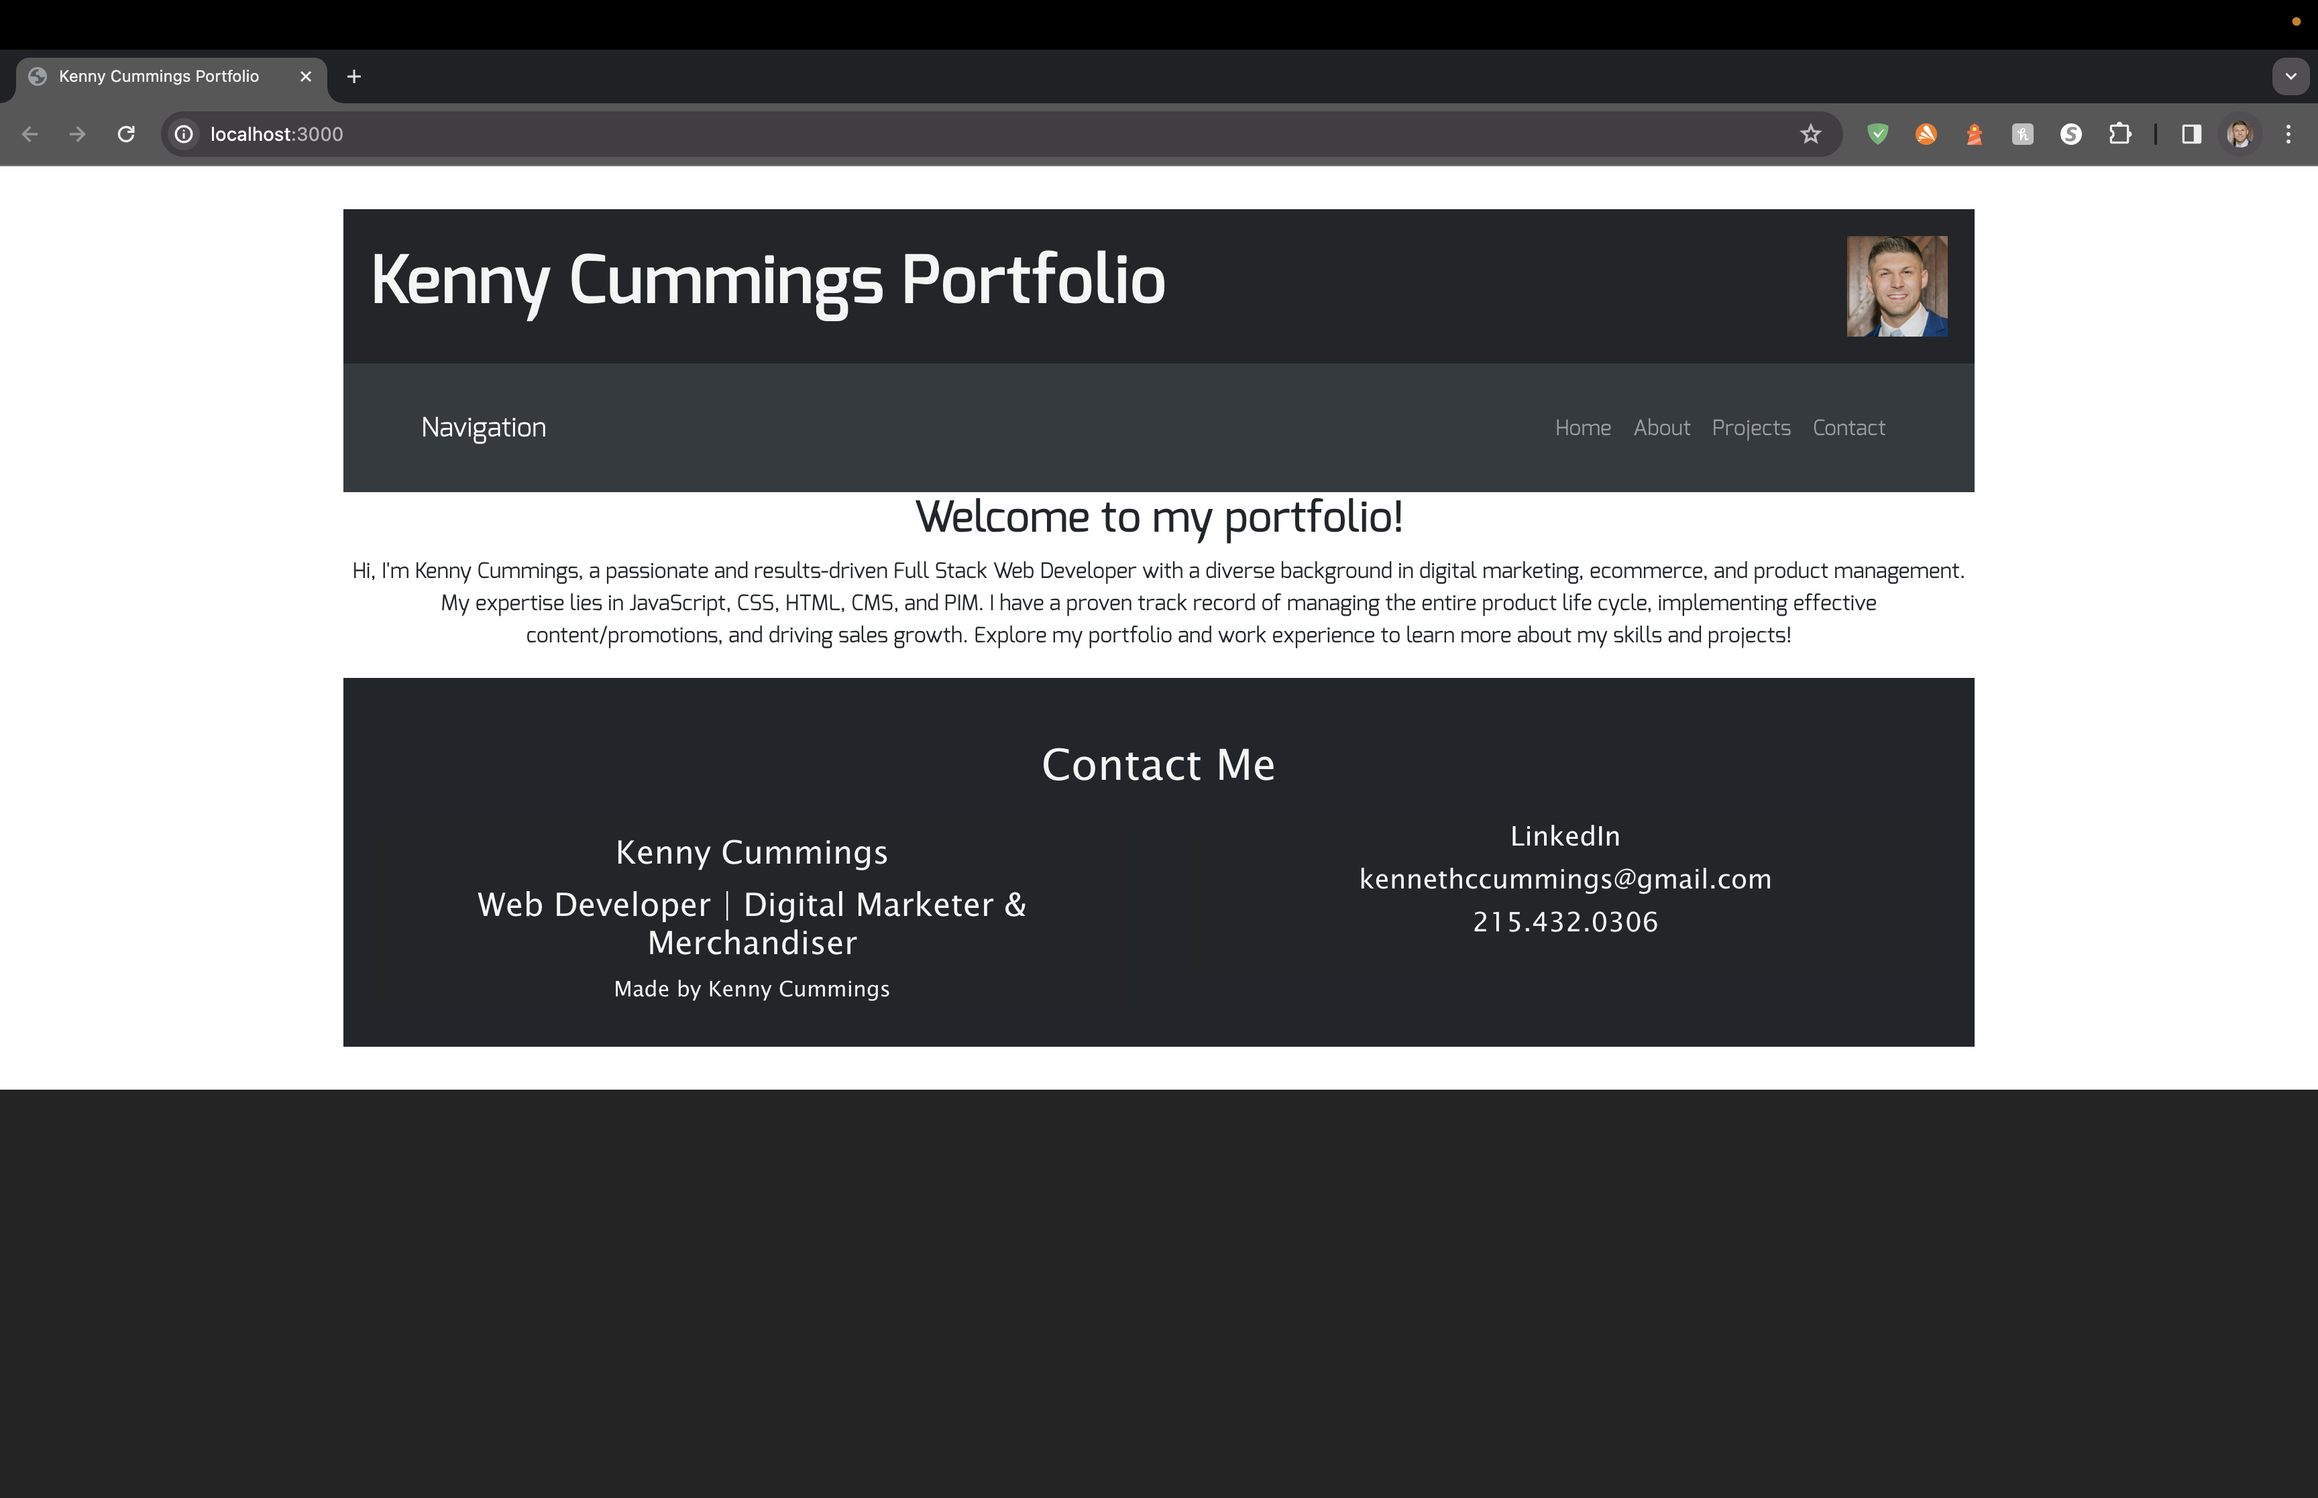
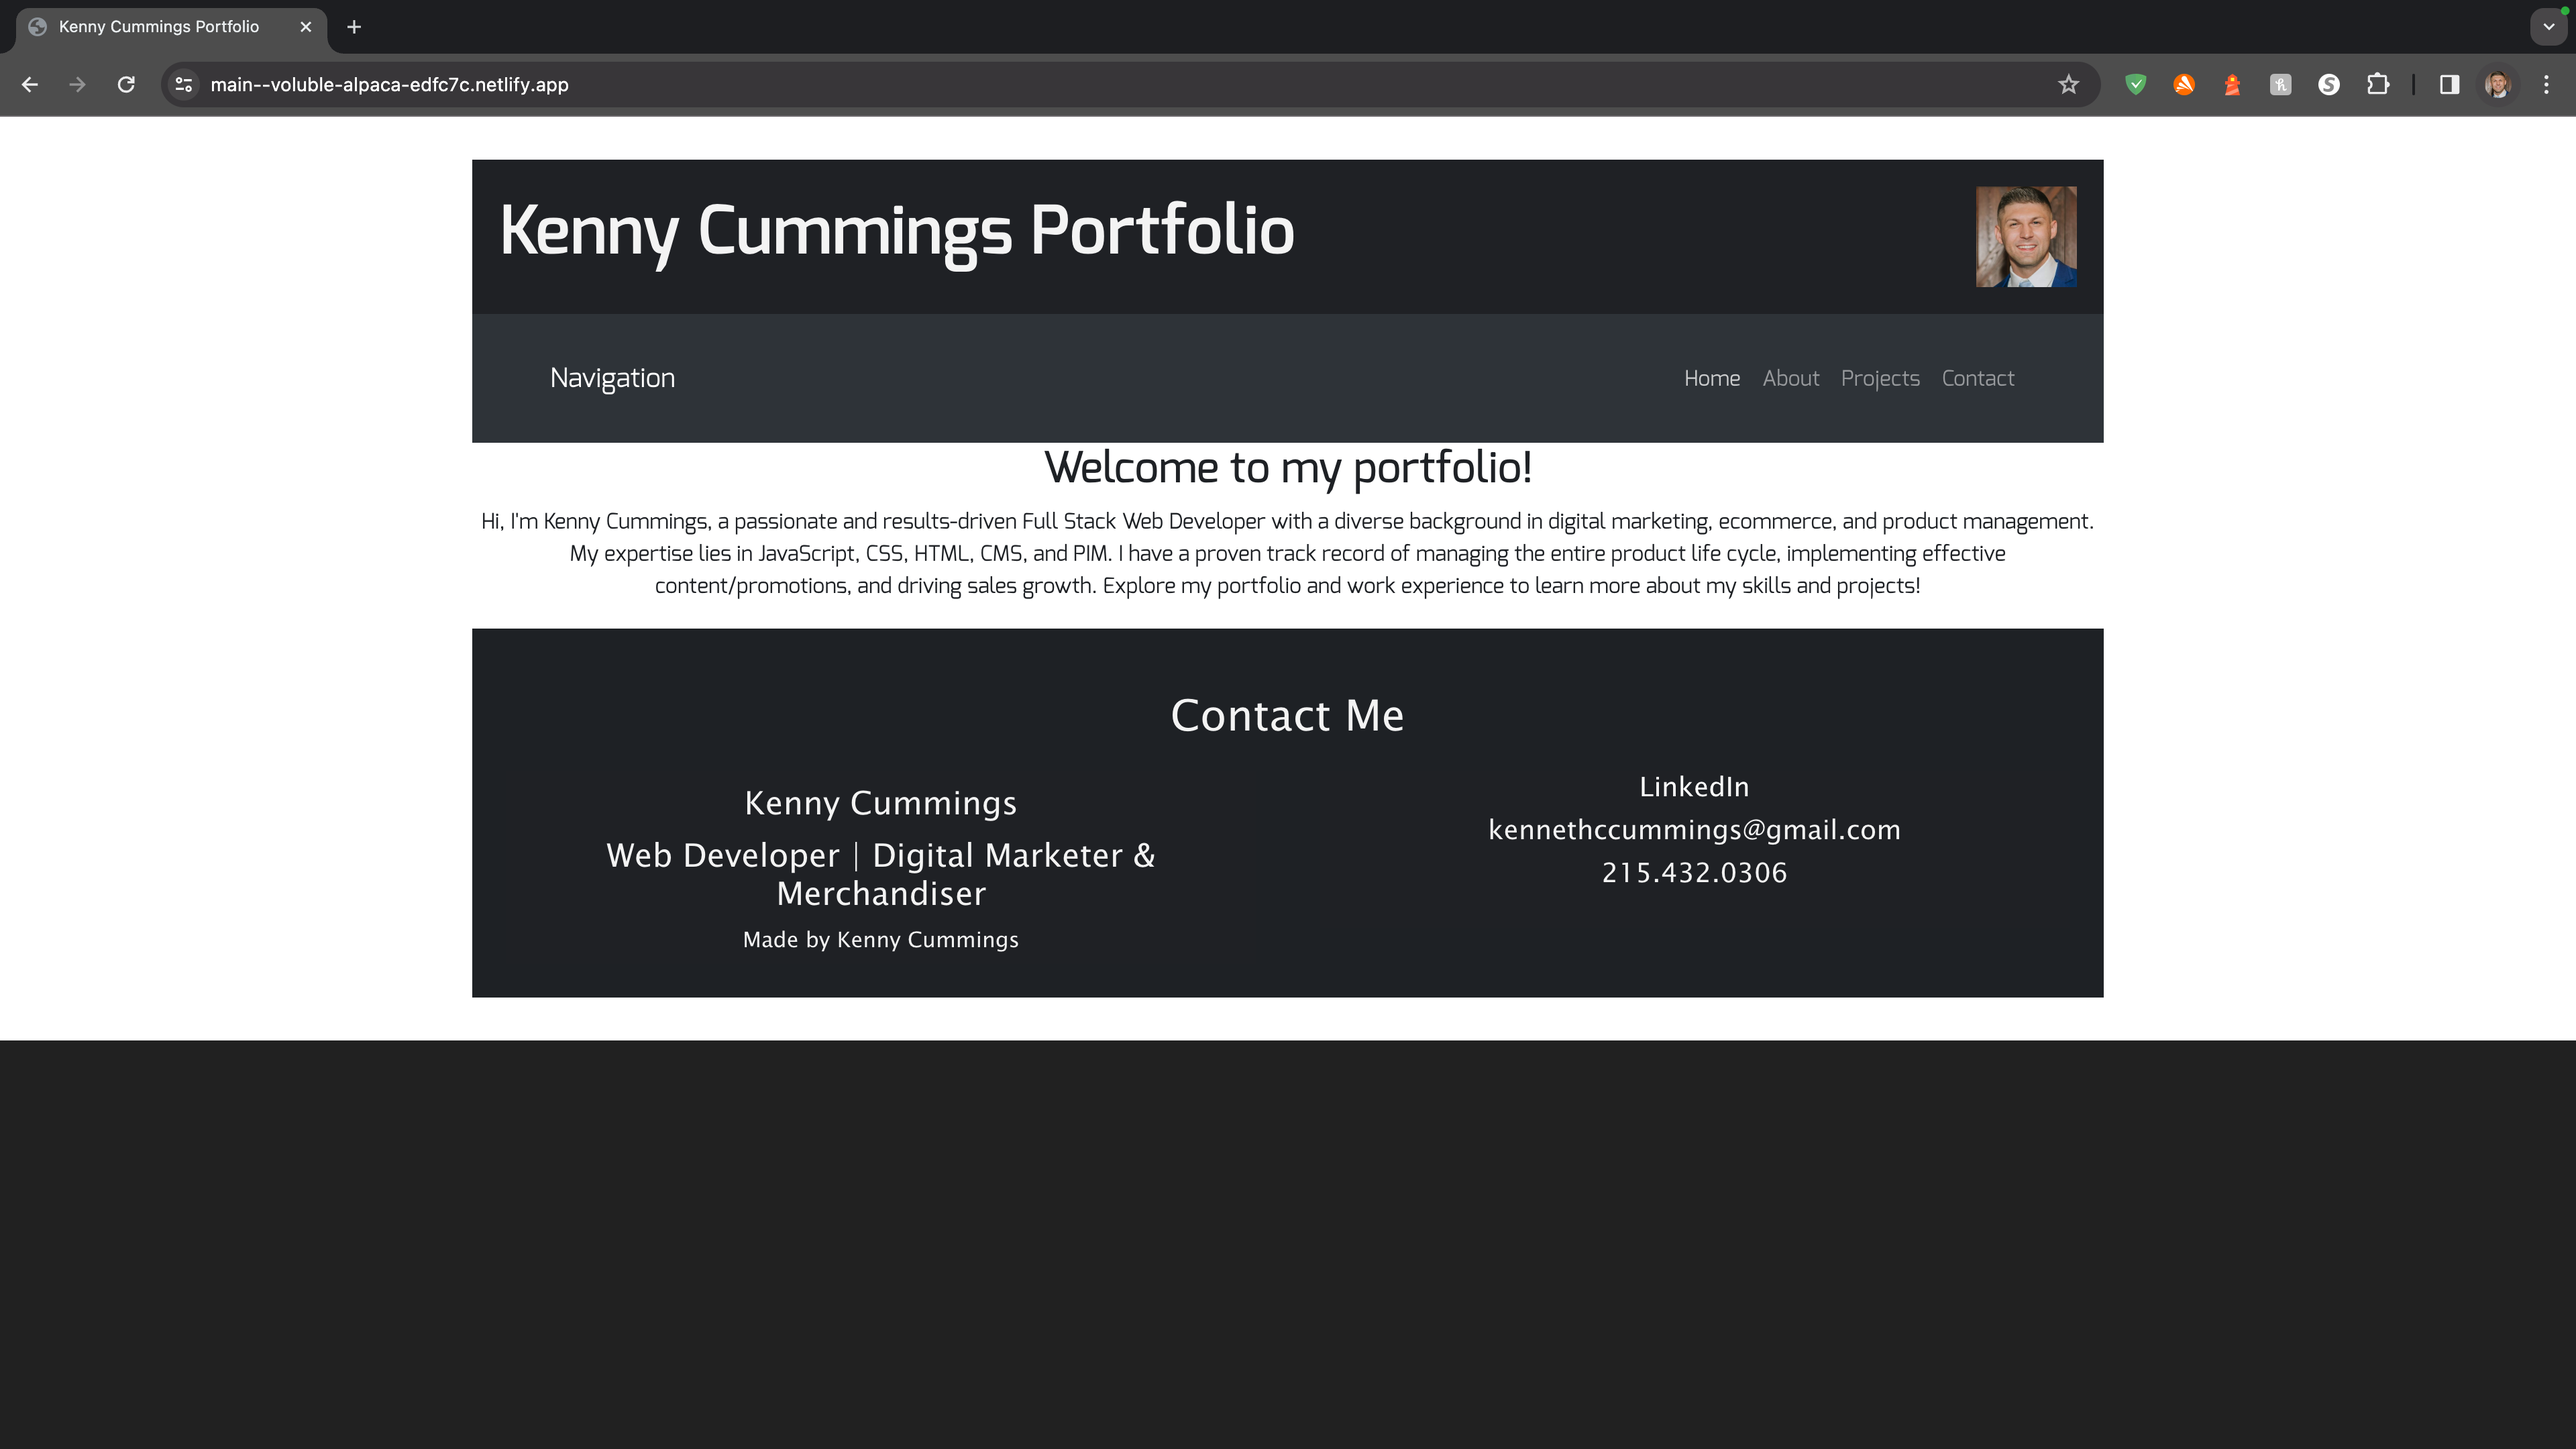
Updated README with deployment link

Changed region(s): [[0.0, 0.0, 1.0, 0.7444], [0.5625, 0.5273, 0.75, 0.6204]]

diff --git a/README.md b/README.md
@@ -26,6 +26,10 @@ The portfolio incorporates a clean and modern design with a consistent color sch
 
 This project is licensed under the [MIT License](LICENSE).
 
+## Deployment Link
+
+https://main--voluble-alpaca-edfc7c.netlify.app/
+
 ## Screenshot
 
 <img src="./public/assets/images/kenny-cummings-work-portfolio-homepage.png" alt="Screenshot of homepage">
